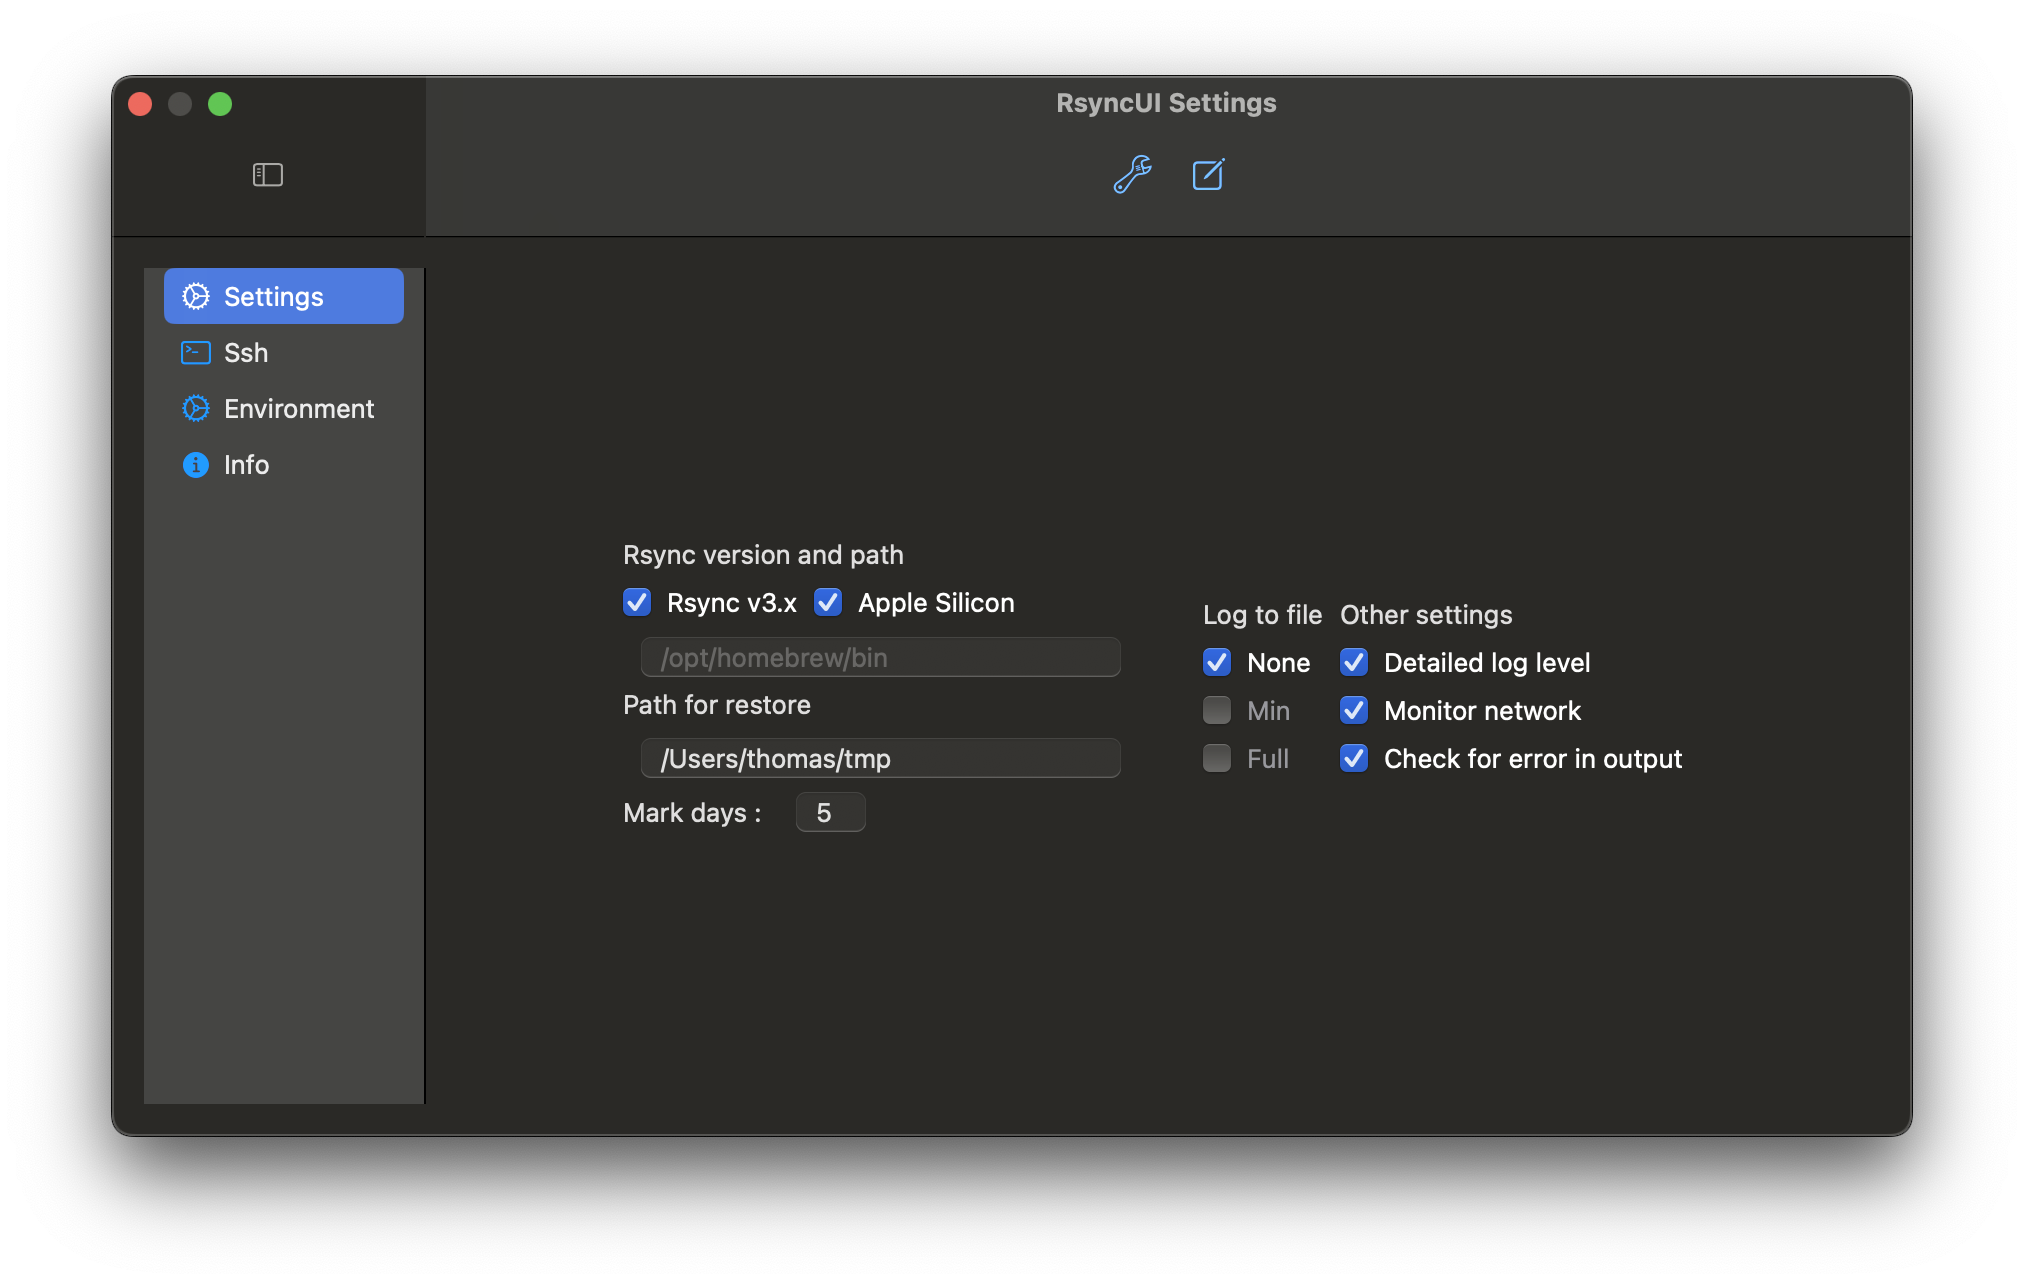
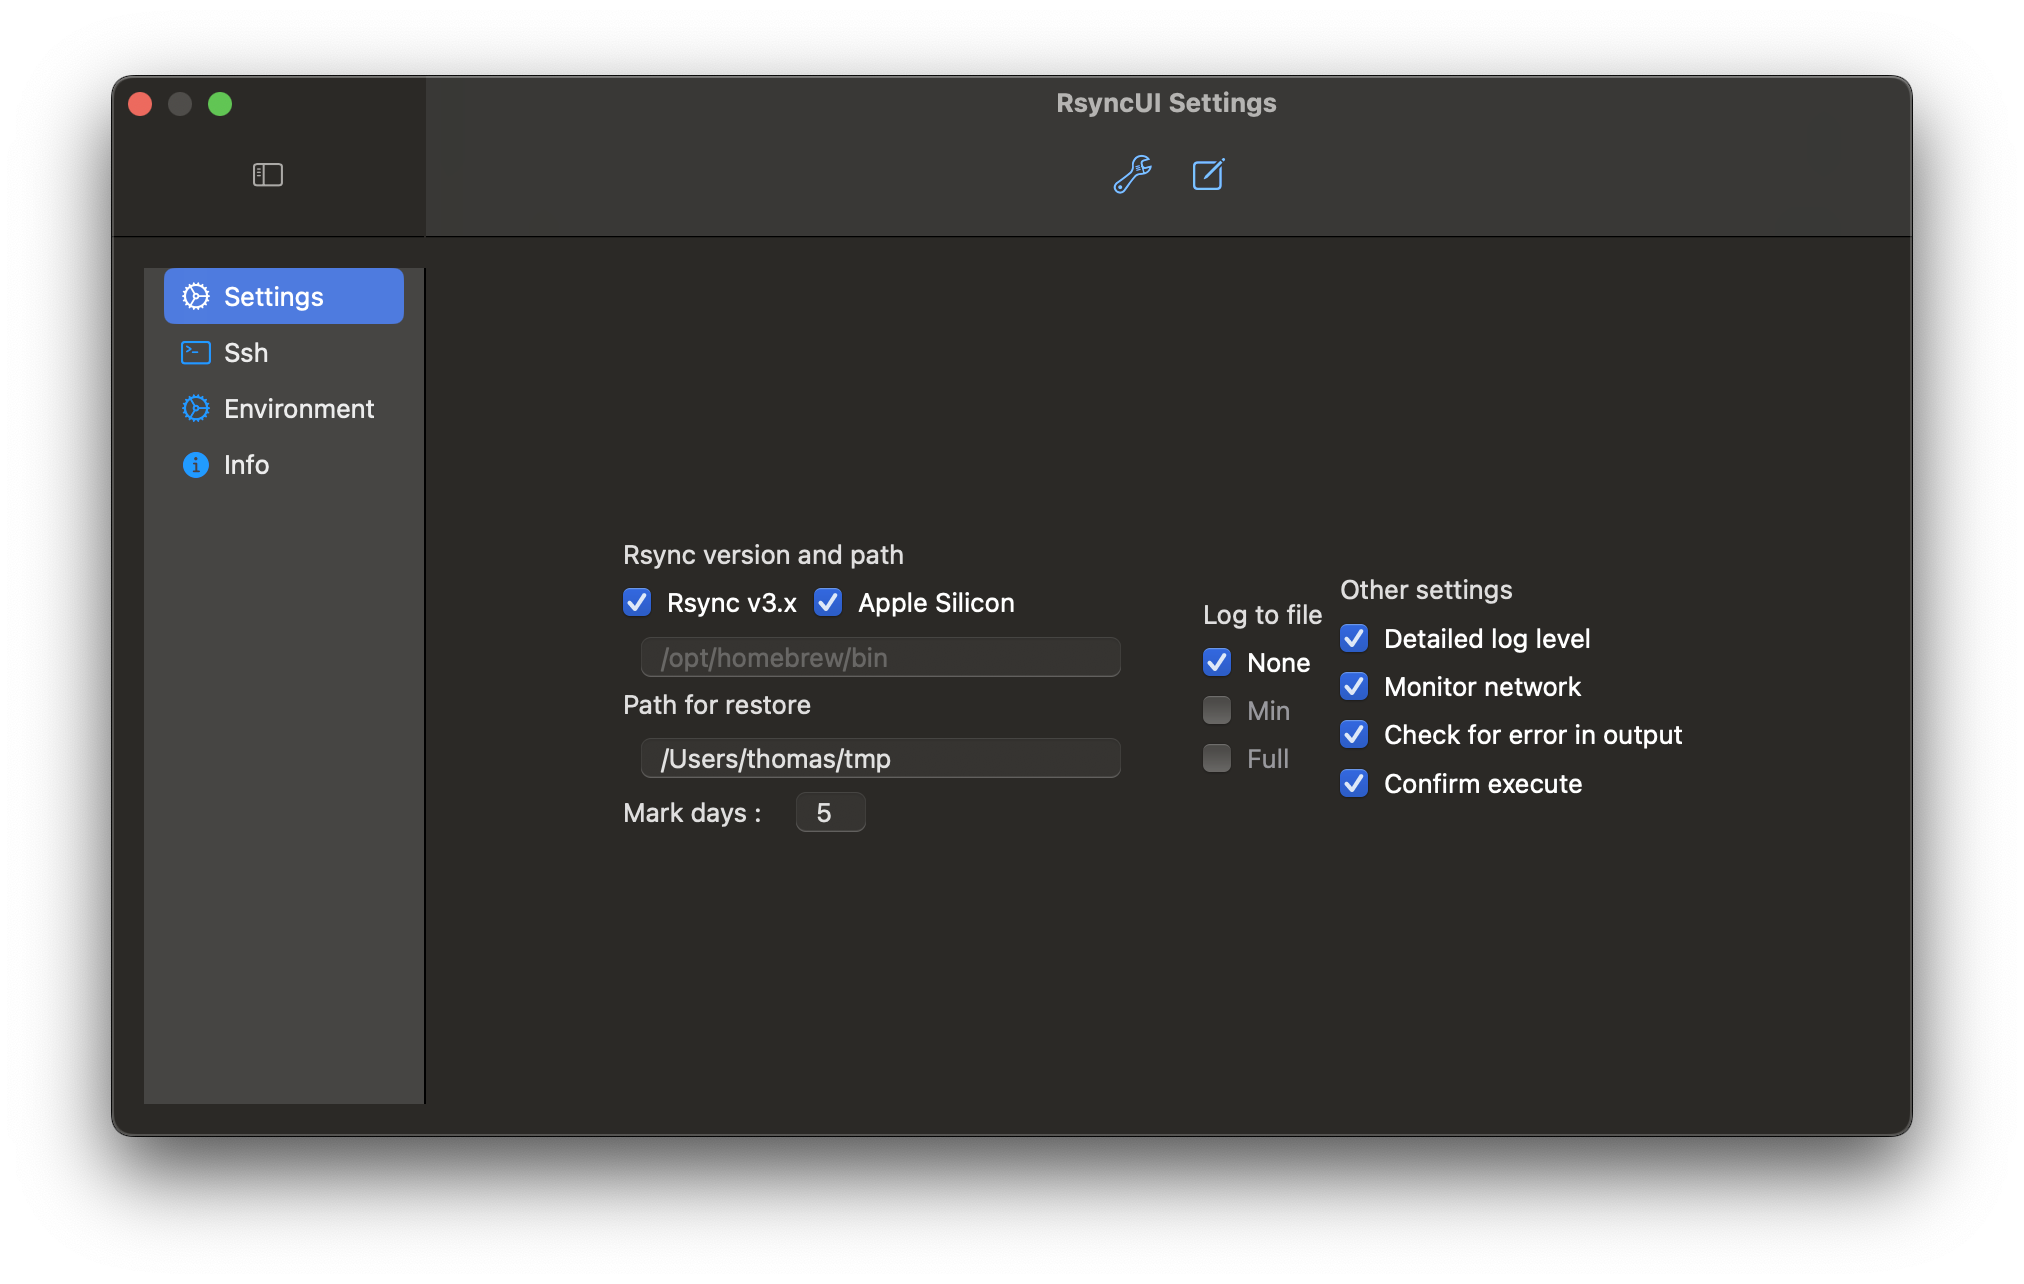
Update

Changed region(s): [[0.6537, 0.4361, 0.8404, 0.6231]]

diff --git a/content/post/Normalsettings.md b/content/post/Normalsettings.md
@@ -57,3 +57,28 @@ The log file is stored at `$HOME/.rsyncosx/macserial/rsyncosx.txt`. The logfile 
     - if a network connection is dropped during execution, RsyncUI sends an interrupt signal to the task and it halts with an error
 - Check for error in output
     - if the word `error` is discovered in output from rsync it is notified
+- Confirm execute
+    - see below
+    
+
+### Error output rsync
+
+Sample of error in output from rsync. If switch `Check for error in output` is on RsyncUI writes the output to logfile and Alerts the user about error in rsync.
+
+{{< figure src="/images/usersettings/errorinrsync.png" alt="" position="center" style="border-radius: 8px;" >}}
+
+### Confirm execute
+
+The new confirm dialog if number of files to synchronize is like a new task:
+- sometimes a remote server or local disk is unavailable, if you commence a synchronize task unaware of destination resource is not available, rsync might believe this is a new full synchronize and a dialog confirms synchronize or abort
+´- if a remote server is unavailable rsync will *most likely* complain and throw an error, if `check for error in output` in user settings is enabled, the rsync error messages written to log and an Alert informing about it will occur
+- if a local disk is not attached rsync will try to synchronize data to `/Volumes/` catalog on your mac, this catalog is normally where macOS mounts local attached disks
+```bash
+/dev/disk5s2 on /Volumes/Import bilder (apfs, local, nodev, nosuid, journaled, noowners)
+/dev/disk6s1 on /Volumes/Backups (apfs, local, nodev, nosuid, journaled, noowners)
+```
+The local attached volume is not connected, the estimate may think there is a new synchronize task. If you just forgot to attach the disk you dont want RsyncUI to synchronize data to the `/Volume` catalog. 
+{{< figure src="/images/usersettings/summarizedview.png" alt="" position="center" style="border-radius: 8px;" >}}
+When the switch is on RsyncUI ask to confirm synchronize. 
+{{< figure src="/images/usersettings/confirmdialog.png" alt="" position="center" style="border-radius: 8px;" >}}
+
